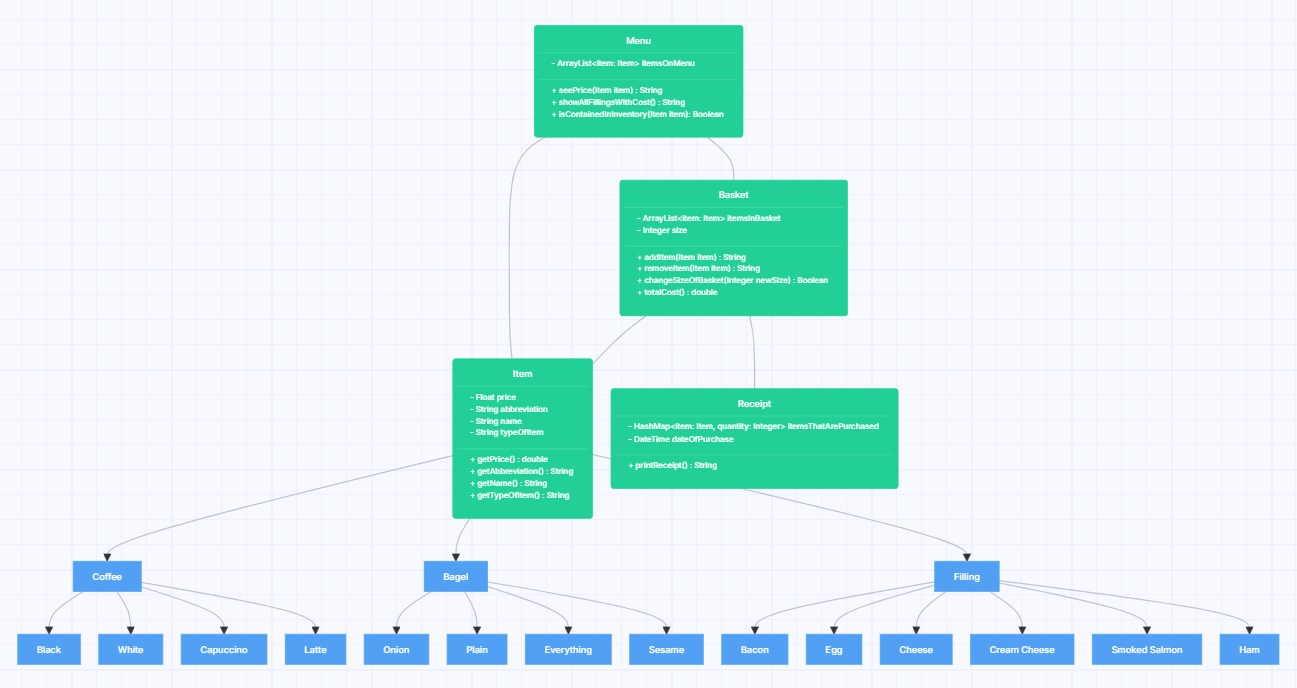
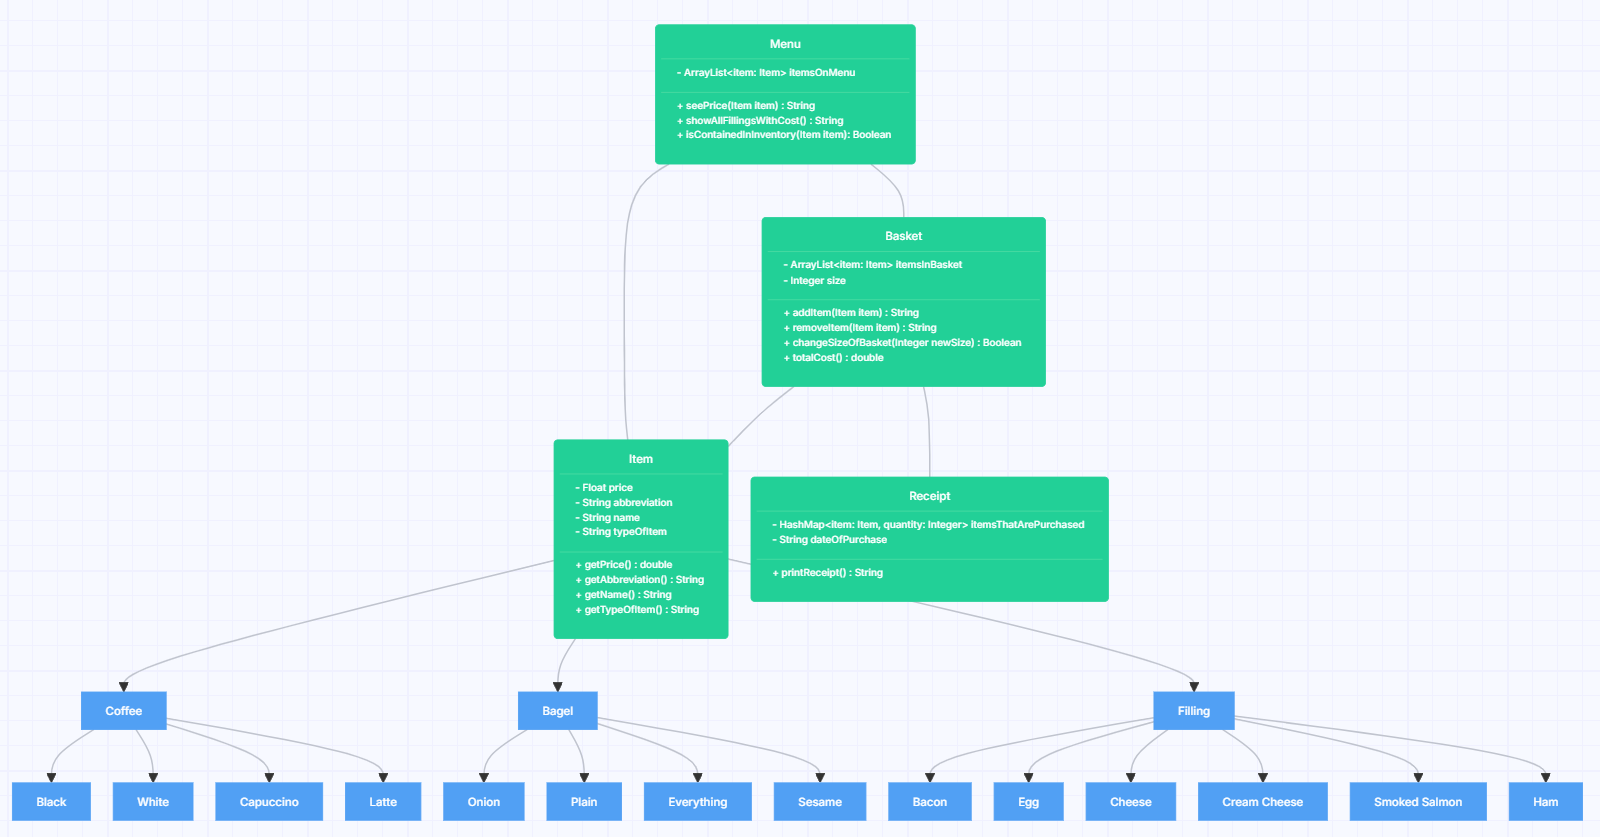
made a small adjustment to the receipt class

diff --git a/src/domain-model.md b/src/domain-model.md
@@ -75,11 +75,11 @@
 // EXTENSION
 ## Receipt
 
-| Method         | Member Variable                               | Scenario                          | Result                                      |
-|----------------|-----------------------------------------------|-----------------------------------|---------------------------------------------|
-|                | HashMap<Item, Quantity> itemsThatArePurchased |                                   |                                             |
-|                | DateTime dateOfPurchase                       |                                   |                                             |
-| printReceipt() |                                               | basket consists of atleast 1 item | String receipt returned and is also printed |
-|                |                                               | basket dont contain any items     | String Error message                        |
-|                |                                               |                                   |                                             |
-|                |                                               |                                   |                                             |
+| Method         | Member Variable                              | Scenario                          | Result                                      |
+|----------------|----------------------------------------------|-----------------------------------|---------------------------------------------|
+|                | HashMap<Item, Integer> itemsThatArePurchased |                                   |                                             |
+|                | String dateOfPurchase                        |                                   |                                             |
+| printReceipt() |                                              | basket consists of atleast 1 item | String receipt returned and is also printed |
+|                |                                              | basket dont contain any items     | String Error message                        |
+|                |                                              |                                   |                                             |
+|                |                                              |                                   |                                             |
